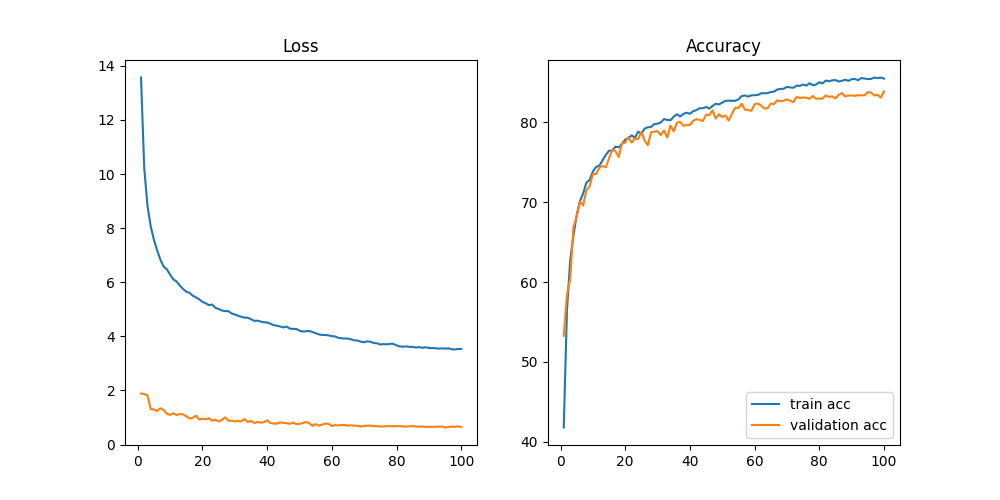
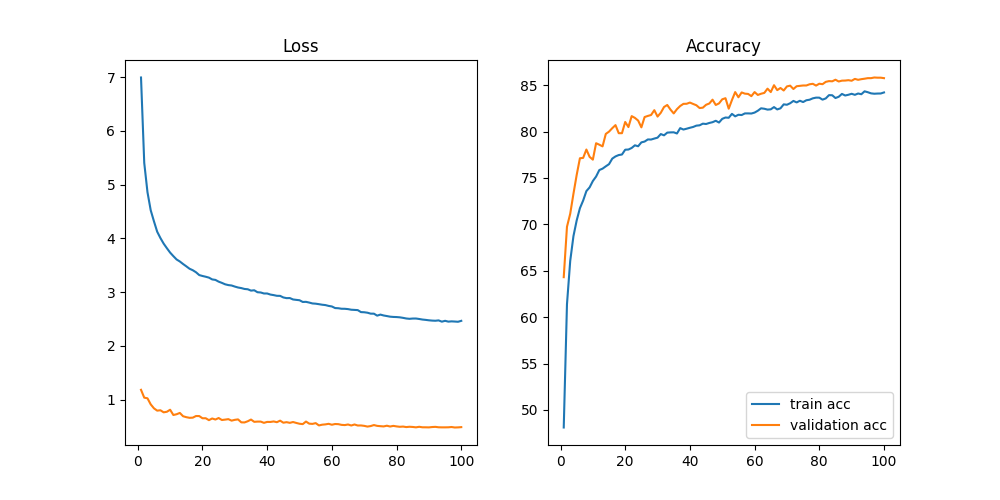
modified checkpoint saving

diff --git a/knowledge_distillation.py b/knowledge_distillation.py
@@ -11,13 +11,12 @@ from models.resnet import ResNet18
 torch.manual_seed(0)
 
 parser = argparse.ArgumentParser(description='Implementation of knowledge distillation')
-parser.add_argument('--temperature', default=4, type=int)
-parser.add_argument('--rate', default=0.9, type=float)
+parser.add_argument('-m', '--mixup', default=True, type=bool)
+parser.add_argument('-t', '--temperature', default=4, type=int)
+parser.add_argument('-r', '--rate', default=0.9, type=float)
 args = parser.parse_args()
 
-device = torch.device("cuda:0" if torch.cuda.is_available() else "cpu")
-print(f'Using device: {device}, {torch.cuda.get_device_name(device)}')
-print(torch.cuda.get_device_properties(device), '\n')
+device = getDevice()
 
 writer = SummaryWriter('./runs/CIFAR10/T{}_R{}'.format(args.temperature, args.rate))
 
@@ -27,17 +26,24 @@ teacher = teacher.to(device)
 
 student = SimpleNet().to(device)
 
-num_epochs = 100
+num_epochs = 1000
 lr = 0.01
 batch_size = 128
 # optimizer = torch.optim.Adam(student.parameters(), lr=lr, weight_decay=5e-4)
 optimizer = torch.optim.SGD(student.parameters(), lr=lr, momentum=0.9, weight_decay=5e-4)
 scheduler = torch.optim.lr_scheduler.CosineAnnealingLR(optimizer, T_max=num_epochs)
 
-train_loader, val_loader, test_loader = DataLoader(batch_size=batch_size, train_val_split=0.8)
+train_loader, val_loader, test_loader = DataLoader(batch_size=batch_size, train_val_split=0.8, mixup=args.mixup)
 train_total_loss, train_total_acc, val_total_loss, val_total_acc = [], [], [], []
 
 best_acc = 0.0
+
+state = {
+    'model': [],
+    'acc': 0,
+    'epoch': 0,
+}
+
 print('----- Start Training ----- T: {}, R: {}'.format(args.temperature, args.rate))
 start = time.process_time()
 for epoch in range(num_epochs):
@@ -54,6 +60,8 @@ for epoch in range(num_epochs):
         
         _, predicted = torch.max(output.data, 1)
         train_total += label.size(0)
+
+        label = torch.argmax(label.data, 1)
         train_correct += (predicted == label).sum().item()
         
         loss = loss_fn_kd(output, label, soft_label, args.temperature, args.rate)
@@ -93,22 +101,17 @@ for epoch in range(num_epochs):
 
     # save checkpoint
     if val_total_acc[-1] > best_acc:
-        state = {
-            'model': student.state_dict(),
-            'acc': val_total_acc[-1],
-            'epoch': epoch,
-        }
-        if not os.path.isdir('checkpoint'):
-            os.mkdir('checkpoint')
-        torch.save(state, './checkpoint/student_kd_cpkt')
         best_acc = val_total_acc[-1]
+        state['model'] = student.state_dict()
+        state['acc'] = val_total_acc[-1]
+        state['epoch'] = epoch
         print('- New checkpoint -')
 
 print(f'----- Traing time: {time.process_time() - start} s -----')
 
 print('\nLoading best model...')
-checkpoint = torch.load('./checkpoint/student_kd_cpkt')
-student.load_state_dict(checkpoint['model'])
+student.load_state_dict(state['model'])
+print('Best acc: {}%'.format(state['acc']))
 
 with torch.no_grad():
     total, correct = 0, 0
@@ -118,7 +121,8 @@ with torch.no_grad():
 
         _, predicted = torch.max(outputs.data, 1)
         total += labels.size(0)
+
         correct += (predicted == labels).sum().item()
     print(f'\n[Test] Accuracy: {100 * correct / total}%')
 
-show_train_result(num_epochs, train_total_loss, train_total_acc, val_total_loss, val_total_acc, 'student_kd')
+show_train_result(num_epochs, train_total_loss, train_total_acc, val_total_loss, val_total_acc, 'student_kd_T{}_R{}'.format(args.temperature, args.rate))

diff --git a/data_loader.py b/data_loader.py
@@ -28,7 +28,7 @@ def DataLoader(batch_size=128, train_val_split=0.8, mixup=True):
     print('Original trainset: {}'.format(len(trainset)))
 
     if mixup:
-        mixup_dataset = MyDataset(trainset, mixup=True)
+        mixup_dataset = MyDataset(trainset, transform=data_transform['augment'], mixup=True)
         new_trainset = torch.utils.data.ConcatDataset([new_trainset, mixup_dataset])
         print('[+] Create Mixup data augmentation: {}'.format(len(mixup_dataset)))
 

diff --git a/train_student.py b/train_student.py
@@ -15,7 +15,7 @@ args = parser.parse_args()
 device = getDevice()
 model = SimpleNet().to(device)
 
-num_epochs = 100
+num_epochs = 1000
 lr = 0.001
 batch_size = 128
 optimizer = torch.optim.Adam(model.parameters(), lr=lr, weight_decay=5e-4)

diff --git a/README.md b/README.md
@@ -12,7 +12,7 @@ CIFAR10
 |  | 3-layer CNN (Student) | Resnet18 (Teacher) |
 |:-:|:-:|:-:|
 | Accuracy | 83.46% | 93.27% |
-| + Mixup  | 84.54% | 94.52% |
+| + Mixup  | 84.86% | 94.46% |
 
 FashionMNIST
 |  | 3-layer CNN (Student) | Resnet18 (Teacher) |
@@ -27,7 +27,7 @@ CIFAR10
 |  | T=4, R=0.9 | T=4, R=0.95 | T=4, R=1.0 | T=10, R=0.9 |
 |--|:-:|:-:|:-:|:-:|
 | Accuracy | 84.47% | 84.86% | 84.14% | -      |
-| + Mixup  | -      | -      | -      | -      |
+| + Mixup  | 85.42% | 84.86% | 85.12% | -      |
 
 FashionMNIST
 |  | T=4, R=0.9 | T=4, R=0.95 | T=4, R=1.0 | T=10, R=0.9 |
